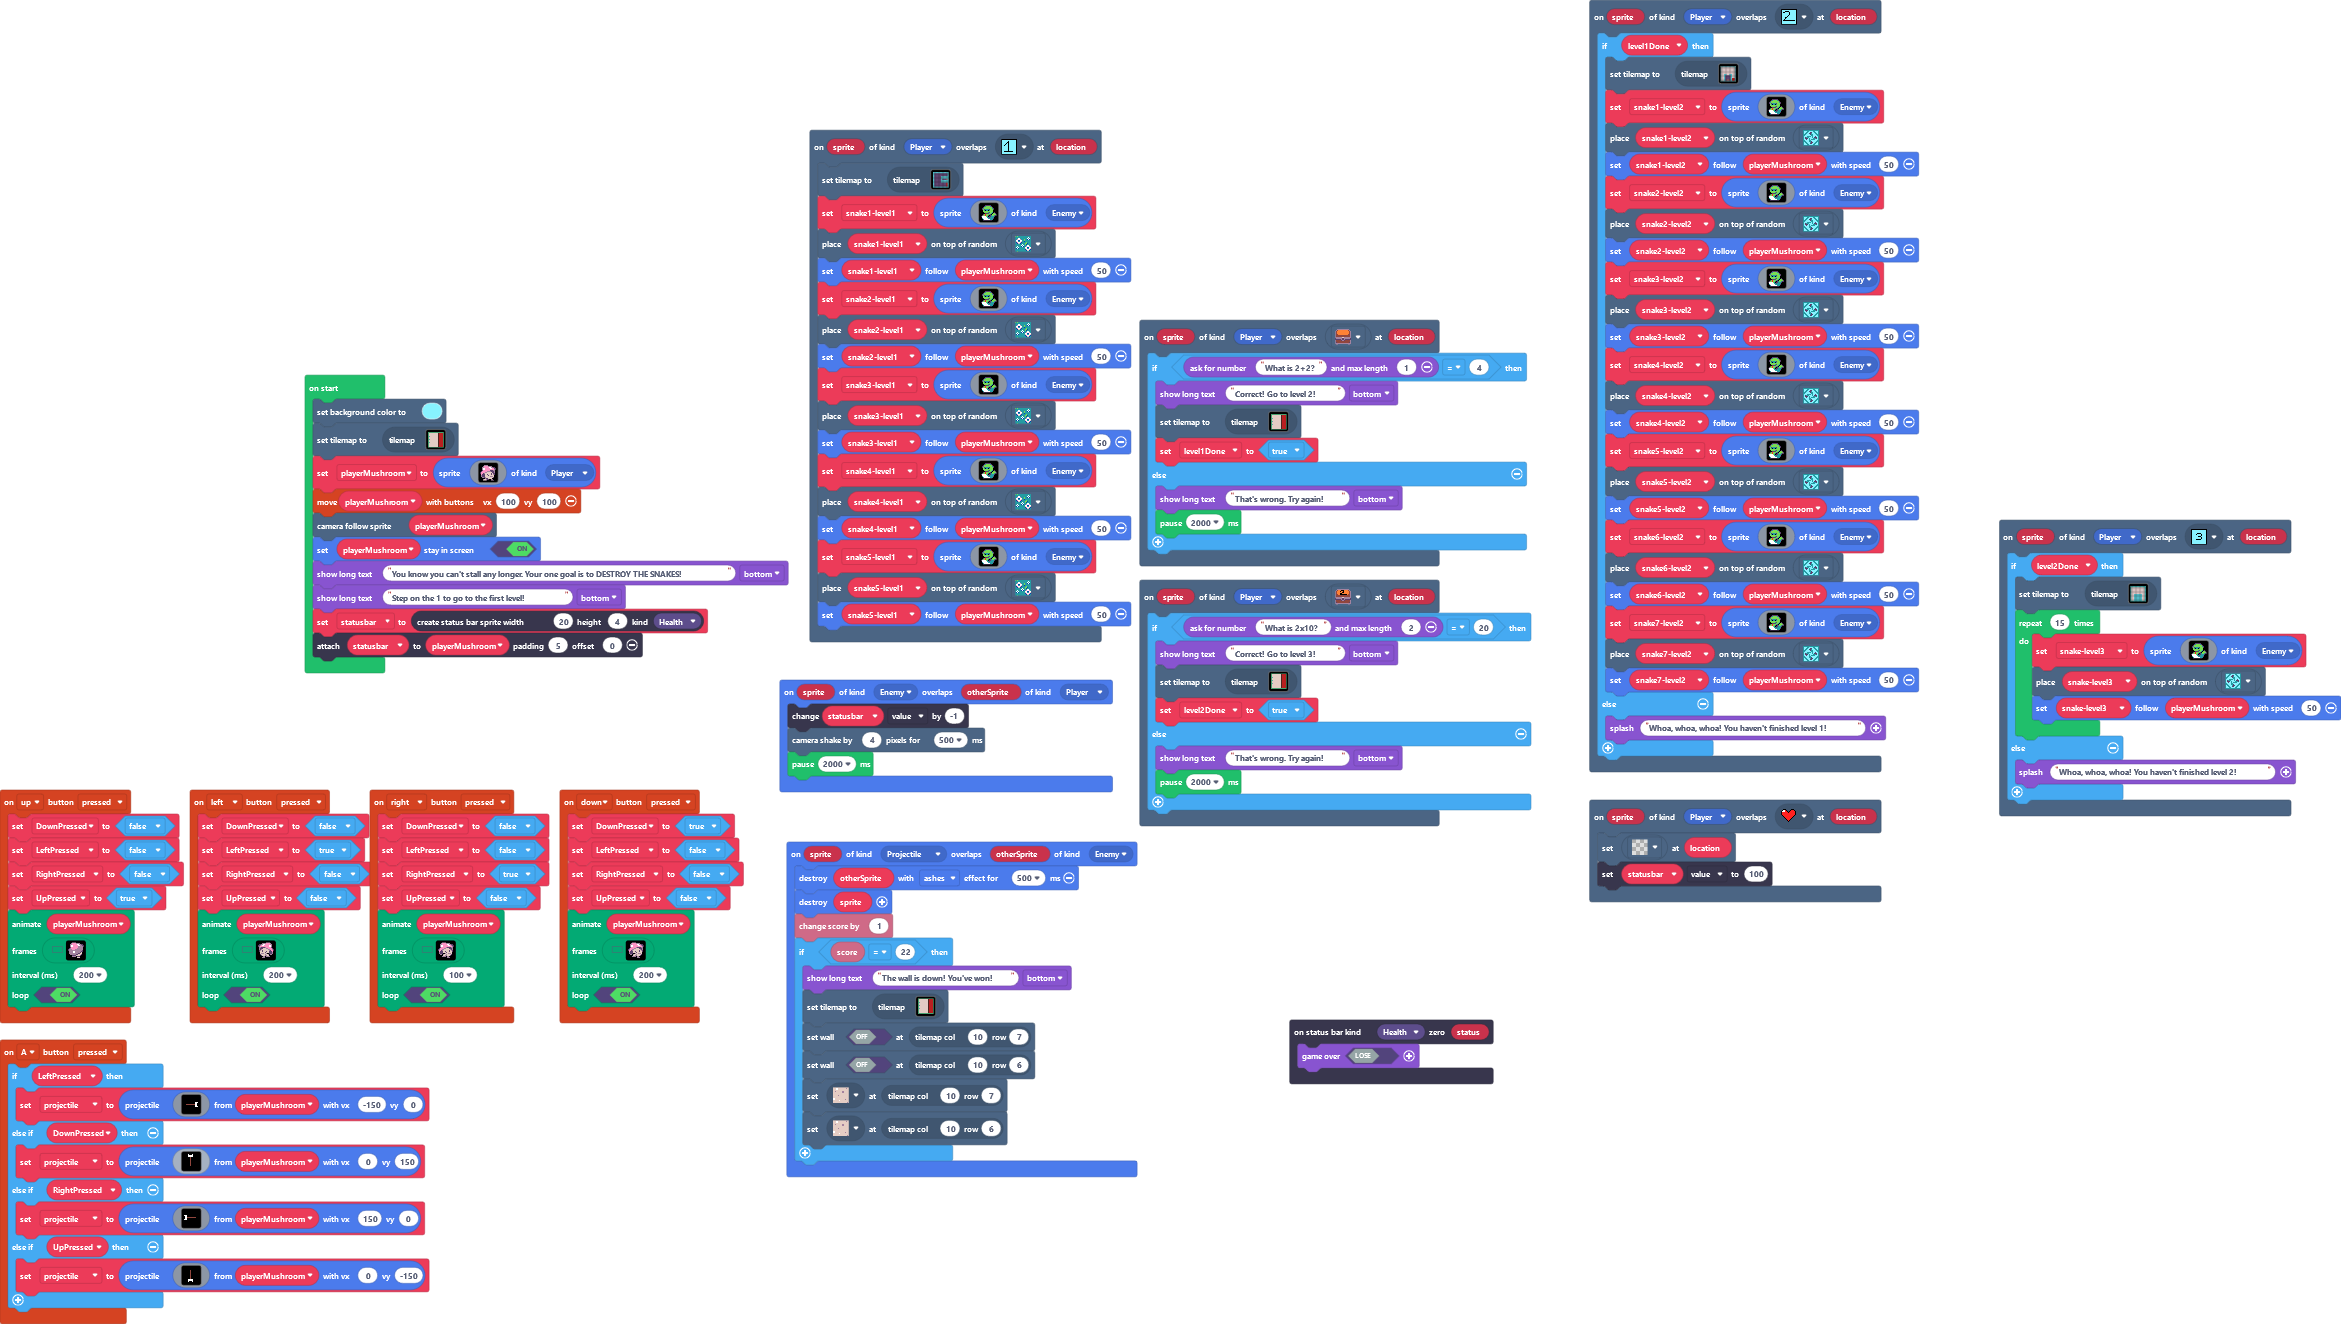
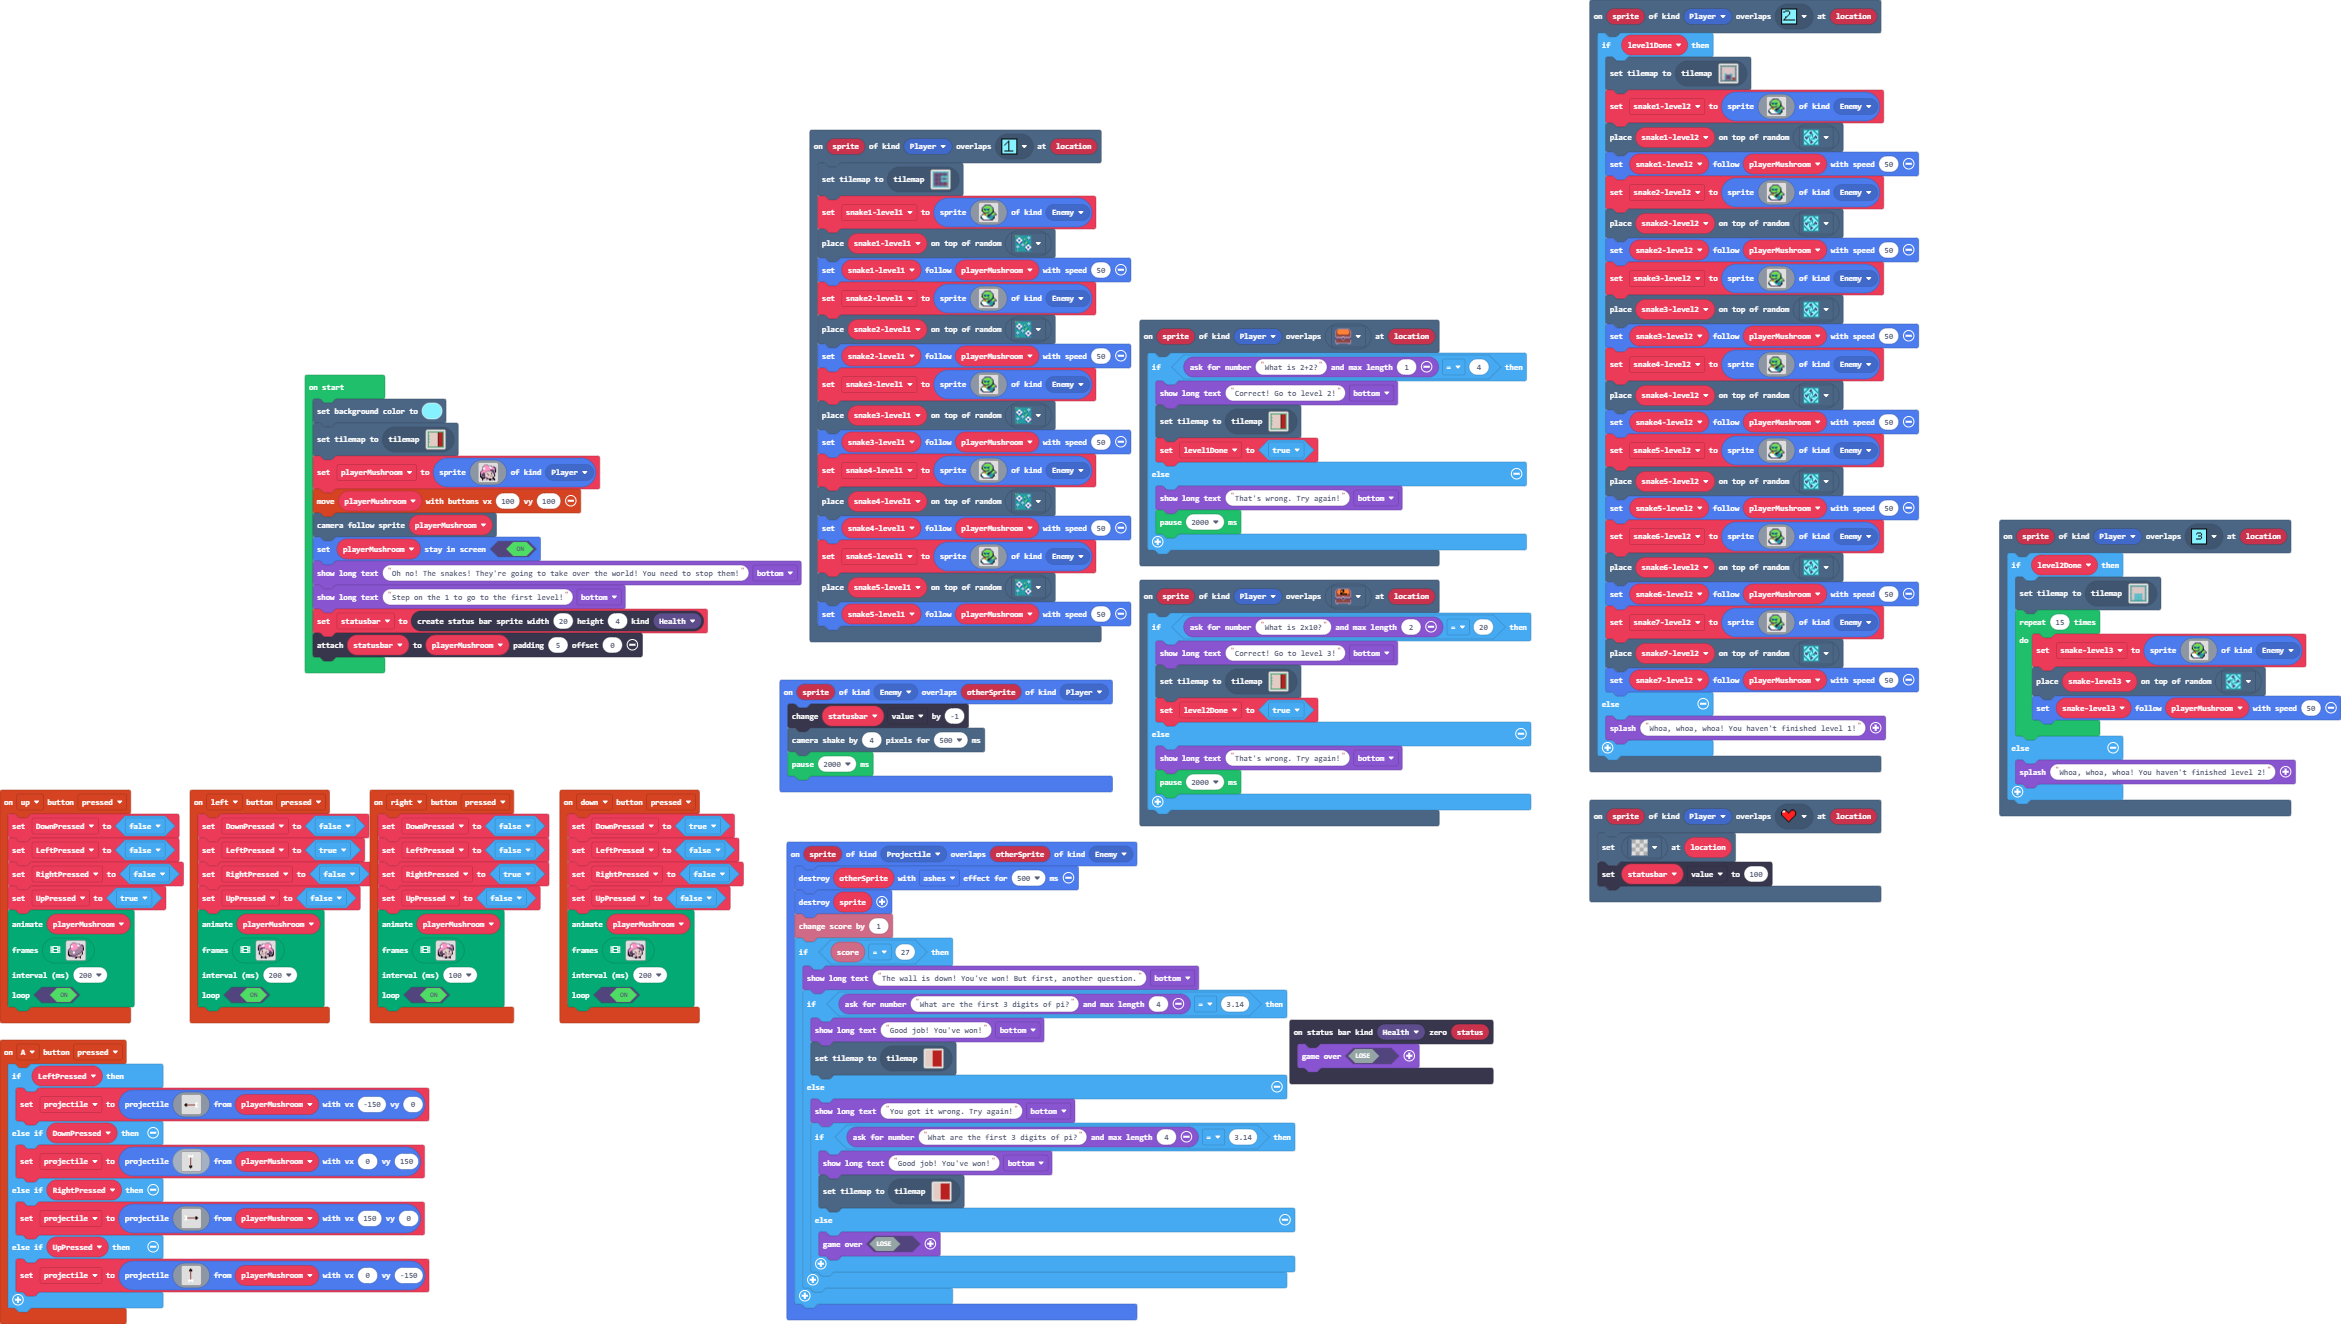
Update pxt.json, main.blocks, main.ts, tilemap.g.jres, tilemap.g.ts, images.g.ts

diff --git a/tilemap.g.ts b/tilemap.g.ts
@@ -53,25 +53,6 @@ namespace myTiles {
 2 . . 2 . . . . 2 . . 2 
 2 2 2 2 2 2 2 2 2 2 2 2 
 `, [myTiles.transparency16,sprites.dungeon.greenOuterSouth0,sprites.dungeon.greenOuterSouthWest,sprites.dungeon.greenOuterEast1,sprites.dungeon.greenOuterNorthEast,sprites.dungeon.greenOuterSouthEast,sprites.dungeon.greenOuterWest1,sprites.dungeon.greenOuterNorth0,sprites.dungeon.greenOuterNorthWest,sprites.dungeon.floorLightMoss,sprites.dungeon.floorLight4,sprites.dungeon.darkGroundCenter,sprites.dungeon.collectibleInsignia,sprites.dungeon.floorLight0,myTiles.tile6,myTiles.tile7], TileScale.Sixteen);
-            case "level6":
-            case "level6":return tiles.createTilemap(hex`1000100000000000000000000000000000000000000000000000000000000000000000000000000000000000000000000000000000000000000000000000000000000000000000000000000000000000000000000000000000000000000000000000000000000000000000000000000000000000000000000000000000000000000000000000000000000000000000000000000000000000000000000000000000000000000000000000000000000000000000000000000000000000000000000000000000000000000000000000000000000000000000000000000000000000000000000000000000000000000000000000000000000000000000000000000000000000`, img`
-. . . . . . . . . . . . . . . . 
-. . . . . . . . . . . . . . . . 
-. . . . . . . . . . . . . . . . 
-. . . . . . . . . . . . . . . . 
-. . . . . . . . . . . . . . . . 
-. . . . . . . . . . . . . . . . 
-. . . . . . . . . . . . . . . . 
-. . . . . . . . . . . . . . . . 
-. . . . . . . . . . . . . . . . 
-. . . . . . . . . . . . . . . . 
-. . . . . . . . . . . . . . . . 
-. . . . . . . . . . . . . . . . 
-. . . . . . . . . . . . . . . . 
-. . . . . . . . . . . . . . . . 
-. . . . . . . . . . . . . . . . 
-. . . . . . . . . . . . . . . . 
-`, [myTiles.transparency16], TileScale.Sixteen);
             case "level7":
             case "level7":return tiles.createTilemap(hex`1000100000000000000000000000000000000000000000000000000000000000000000000000000000000000000000000000000000000000000000000000000000000000000000000000000000000000000000000000000000000000000000000000000000000000000000000000000000000000000000000000000000000000000000000000000000000000000000000000000000000000000000000000000000000000000000000000000000000000000000000000000000000000000000000000000000000000000000000000000000000000000000000000000000000000000000000000000000000000000000000000000000000000000000000000000000000000`, img`
 . . . . . . . . . . . . . . . . 
@@ -144,6 +125,44 @@ namespace myTiles {
 2 . . . . . . . . . 2 . . . . 2 
 2 2 2 2 2 2 2 2 2 2 2 2 2 2 2 2 
 `, [myTiles.transparency16,sprites.castle.tilePath5,sprites.builtin.forestTiles0,myTiles.tile3,myTiles.tile4,myTiles.tile7,myTiles.tile8,myTiles.tile1], TileScale.Sixteen);
+            case "levelWin":
+            case "level6":return tiles.createTilemap(hex`1000100002020202020202010101010101010101020202020202020101010101010101010202020202020201010101010101010102020202020202010101010101010101020202020202020101010101010101010202020202020201010101010101010102020202020202010101010101010101020202020202020101010101010101010202020202020201010101010101010102020202020202010101010101010101020202020202020101010101010101010202020202020201010101010101010102020202020202010101010101010101020202020202020101010101010101010202020202020201010101010101010102020202020202010101010101010101`, img`
+. . . . . . . . . . . . . . . . 
+. . . . . . . . . . . . . . . . 
+. . . . . . . . . . . . . . . . 
+. . . . . . . . . . . . . . . . 
+. . . . . . . . . . . . . . . . 
+. . . . . . . . . . . . . . . . 
+. . . . . . . . . . . . . . . . 
+. . . . . . . . . . . . . . . . 
+. . . . . . . . . . . . . . . . 
+. . . . . . . . . . . . . . . . 
+. . . . . . . . . . . . . . . . 
+. . . . . . . . . . . . . . . . 
+. . . . . . . . . . . . . . . . 
+. . . . . . . . . . . . . . . . 
+. . . . . . . . . . . . . . . . 
+. . . . . . . . . . . . . . . . 
+`, [myTiles.transparency16,myTiles.tile7,sprites.castle.tilePath5], TileScale.Sixteen);
+            case "level9":
+            case "level9":return tiles.createTilemap(hex`1000100000000000000000000000000000000000000000000000000000000000000000000000000000000000000000000000000000000000000000000000000000000000000000000000000000000000000000000000000000000000000000000000000000000000000000000000000000000000000000000000000000000000000000000000000000000000000000000000000000000000000000000000000000000000000000000000000000000000000000000000000000000000000000000000000000000000000000000000000000000000000000000000000000000000000000000000000000000000000000000000000000000000000000000000000000000000`, img`
+. . . . . . . . . . . . . . . . 
+. . . . . . . . . . . . . . . . 
+. . . . . . . . . . . . . . . . 
+. . . . . . . . . . . . . . . . 
+. . . . . . . . . . . . . . . . 
+. . . . . . . . . . . . . . . . 
+. . . . . . . . . . . . . . . . 
+. . . . . . . . . . . . . . . . 
+. . . . . . . . . . . . . . . . 
+. . . . . . . . . . . . . . . . 
+. . . . . . . . . . . . . . . . 
+. . . . . . . . . . . . . . . . 
+. . . . . . . . . . . . . . . . 
+. . . . . . . . . . . . . . . . 
+. . . . . . . . . . . . . . . . 
+. . . . . . . . . . . . . . . . 
+`, [myTiles.transparency16], TileScale.Sixteen);
         }
         return null;
     })

diff --git a/main.ts b/main.ts
@@ -151,13 +151,20 @@ sprites.onOverlap(SpriteKind.Projectile, SpriteKind.Enemy, function (sprite, oth
     otherSprite.destroy(effects.ashes, 500)
     sprite.destroy()
     info.changeScoreBy(1)
-    if (info.score() == 22) {
-        game.showLongText("The wall is down! You've won!", DialogLayout.Bottom)
-        tiles.setCurrentTilemap(tilemap`teleportBase`)
-        tiles.setWallAt(tiles.getTileLocation(10, 7), false)
-        tiles.setWallAt(tiles.getTileLocation(10, 6), false)
-        tiles.setTileAt(tiles.getTileLocation(10, 7), sprites.castle.tilePath5)
-        tiles.setTileAt(tiles.getTileLocation(10, 6), sprites.castle.tilePath5)
+    if (info.score() == 27) {
+        game.showLongText("The wall is down! You've won! But first, another question.", DialogLayout.Bottom)
+        if (game.askForNumber("What are the first 3 digits of pi?", 4) == 3.14) {
+            game.showLongText("Good job! You've won!", DialogLayout.Bottom)
+            tiles.setCurrentTilemap(tilemap`levelWin`)
+        } else {
+            game.showLongText("You got it wrong. Try again!", DialogLayout.Bottom)
+            if (game.askForNumber("What are the first 3 digits of pi?", 4) == 3.14) {
+                game.showLongText("Good job! You've won!", DialogLayout.Bottom)
+                tiles.setCurrentTilemap(tilemap`levelWin`)
+            } else {
+                game.over(false)
+            }
+        }
     }
 })
 let snake5level1: Sprite = null
@@ -188,7 +195,7 @@ playerMushroom = sprites.create(assets.image`mushroom`, SpriteKind.Player)
 controller.moveSprite(playerMushroom, 100, 100)
 scene.cameraFollowSprite(playerMushroom)
 playerMushroom.setStayInScreen(true)
-game.showLongText("You know you can't stall any longer. Your one goal is to DESTROY THE SNAKES!", DialogLayout.Bottom)
+game.showLongText("Oh no! The snakes! They're going to take over the world! You need to stop them!", DialogLayout.Bottom)
 game.showLongText("Step on the 1 to go to the first level!", DialogLayout.Bottom)
 statusbar = statusbars.create(20, 4, StatusBarKind.Health)
 statusbar.attachToSprite(playerMushroom, 5, 0)

diff --git a/images.g.ts b/images.g.ts
@@ -562,5 +562,12 @@ f f b b c b d d d d d d d c . .
         return null;
     })
 
+    helpers._registerFactory("song", function(name: string) {
+        switch(helpers.stringTrim(name)) {
+
+        }
+        return null;
+    })
+
 }
 // Auto-generated code. Do not edit.
